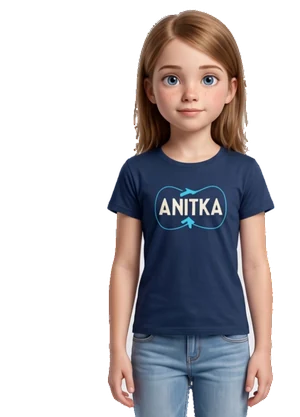
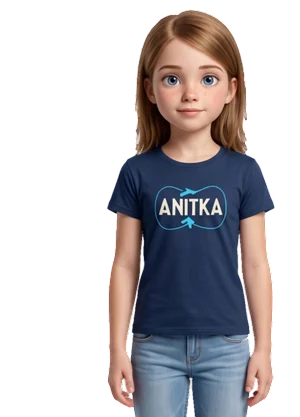
Anitka: užší sloupec v průvodci a čistší ořez pozadí

diff --git a/components/guide/guide-tour.tsx b/components/guide/guide-tour.tsx
@@ -70,13 +70,16 @@ export function GuideTour({ onNavigate, onClose }: { onNavigate: (tab: Tab) => v
         <div className="flex flex-row-reverse overflow-hidden rounded-3xl border border-border bg-surface-elevated text-foreground shadow-elevated motion-safe:animate-in motion-safe:fade-in motion-safe:slide-in-from-bottom-3 motion-safe:duration-300">
           {/* The mascot stands inside the card, whole, with her feet on its lower edge. Above her
               the icon of the section being explained, the same one the navigation uses. */}
-          <div className="flex w-[8.25rem] shrink-0 flex-col items-center justify-between bg-accent-subtle pt-3 sm:w-36">
+          <div className="flex w-[6rem] shrink-0 flex-col items-center justify-between bg-accent-subtle pt-3 sm:w-28">
             <span key={`icon-${step.id}`} className="flex size-9 items-center justify-center rounded-full bg-surface-elevated text-accent-text shadow-sm motion-safe:animate-in motion-safe:zoom-in-50 motion-safe:duration-300">
               <SectionIcon className="size-5" aria-hidden="true" />
             </span>
             {/* She hops in each time a new card appears (the key restarts it), breathes and sways, and her
                 face and head are alive: blinking, smiling, nodding, a wink (components/guide/anitka-mascot.tsx). */}
-            <div key={`mascot-${step.id}`} className="guide-hop mt-3 w-full px-0.5">
+            {/* The picture is wider than the column on purpose (its left side is where her raised hand goes
+                while she greets): it overhangs the text for those few seconds, and she herself stands in the
+                middle of the column. */}
+            <div key={`mascot-${step.id}`} className="guide-hop pointer-events-none relative z-10 mt-3 w-[8.25rem] shrink-0 -ml-[2.25rem] self-start sm:w-36">
               <AnitkaMascot mood={step.mood} talkMs={talkDurationMs(step.text)} className="guide-idle" />
             </div>
           </div>

diff --git a/docs/22_GUIDE.md b/docs/22_GUIDE.md
@@ -19,7 +19,7 @@ Klikatelný interaktivní návod (ne video) s maskotem Anitkou, malou holčičko
 
 **Přirozený pohyb (2026-10-12).** Houpání a poskočení při změně karty bylo pryč: nepůsobilo přirozeně. Teď se jen jemně nadechuje (`guide-idle`), nová karta se plynule objeví (`guide-hop`, 0,45 s, bez skoku a bez vjezdu ze strany). Mluví po dobu úměrnou délce textu karty (`talkDurationMs`, 1,6–4,5 s, CSS proměnná `--talk`): rty se pohybují nepravidelně s pauzami mezi frázemi a hlava se při řeči lehce zdvihá a sklání (vrstva `.anitka-speak`). Mrká nepravidelně a jednou za cyklus dvakrát za sebou, hlava se v klidu jen pomalu uvolňuje do stran. Nálady (`mood`) začínají i končí v klidové poloze: `nod` kývne po domluvení, `think` na chvíli nakloní hlavu, `cheer` krátce zvedne hlavu, `wink` mrkne po domluvení a úsměv přichází až po řeči. **Gestikulace rukama zatím není:** podklad je jeden obrázek, na kterém ruce visí podél těla a jsou na dolním okraji ořezané (dlaně nejsou vidět), takže je nejde věrohodně hýbat. Vyžaduje nový podklad (postava s viditelnýma rukama, ideálně ruce zvlášť).
 
-**Nová podoba postavy (2026-10-12, realističtější, z animací od vlastníka).** Průvodce i intro používají stejnou postavu: dívku v modrém tričku z čelního pohledu, vyříznutou ze studiového pozadí videí (`public/brand/anitka/`): `anitka-guide-front.webp` (klidná poloha, horní polovina těla, 300 × 417 px) a `anitka-guide-wave.webp` (spritový list 7 × 5 dlaždic ze snímků videa „Mávání zepředu“, 12 snímků za sekundu). Na ostatních kartách se hýbe jen hlava (drift, kývnutí, naklonění; vrstva hlavy je ta samá kresba oříznutá u krku) a obličej: víčka (mrkání, mrknutí) a ústa (úsměv, pohyb rtů při „řeči“) jsou SVG přes obličej, souřadnice v pixelech videa (1176 × 1756) posunuté o ořez. První karta (`mood: 'wave'`) nahradí klidný obrázek mávnutím z videa (asi 3 s) a plynule se do něj vrátí (průnik 0,3 s); při „omezit pohyb“ je jen klidný obrázek. Sloupec s postavou je širší (8,25–9 rem), aby se vešla i zvednutá ruka. Staré obrázky `anitka-mascot-full.webp` a vrstvy `anitka-guide-body/arm/wave-*.webp` jsou smazané. Úvodní obrazovka před přihlášením má vlastní přehrávání (viz výše).
+**Nová podoba postavy (2026-10-12, realističtější, z animací od vlastníka).** Průvodce i intro používají stejnou postavu: dívku v modrém tričku z čelního pohledu, vyříznutou ze studiového pozadí videí (`public/brand/anitka/`): `anitka-guide-front.webp` (klidná poloha, horní polovina těla, 300 × 417 px) a `anitka-guide-wave.webp` (spritový list 7 × 5 dlaždic ze snímků videa „Mávání zepředu“, 12 snímků za sekundu). Na ostatních kartách se hýbe jen hlava (drift, kývnutí, naklonění; vrstva hlavy je ta samá kresba oříznutá u krku) a obličej: víčka (mrkání, mrknutí) a ústa (úsměv, pohyb rtů při „řeči“) jsou SVG přes obličej, souřadnice v pixelech videa (1176 × 1756) posunuté o ořez. První karta (`mood: 'wave'`) nahradí klidný obrázek mávnutím z videa (asi 3 s) a plynule se do něj vrátí (průnik 0,3 s); při „omezit pohyb“ je jen klidný obrázek. Sloupec s postavou je úzký (6–7 rem), obrázek v něm je ale širší (8,25–9 rem) a vyčnívá doleva přes text (`z-10`, bez zachytávání klepnutí): ruka při mávání na pár vteřin přejede přes text a potom se postava do sloupce vejde. Ořez pozadí (2026-10-12, podruhé): za pozadí se bere i každý jasný skoro bezbarvý pixel (stěna a podlaha studia; kůže, vlasy, džíny a tričko jsou barevné), takže nezůstávají proužky mezi paží a tělem ani světlý lem kolem vlasů; uvnitř postavy se nechávají jen díry v obličeji, v nápisu na tričku a drobné díry v džínách. Boty se skládají z růžové části a tenkého lemu podrážky, ne z jasu podlahy. Staré obrázky `anitka-mascot-full.webp` a vrstvy `anitka-guide-body/arm/wave-*.webp` jsou smazané. Úvodní obrazovka před přihlášením má vlastní přehrávání (viz výše).
 
 Původní popis (zachovaný níže) platí pro dýchání a umístění v kartě; skok a kolébání už neplatí a obrázek je nahrazený.
 

diff --git a/docs/07_CHANGELOG.md b/docs/07_CHANGELOG.md
@@ -1,3 +1,8 @@
+## 2026-10-12 — Anitka: užší sloupec v průvodci a čistší ořez pozadí
+
+- Koncept: `docs/22_GUIDE.md`. Sloupec s postavou v průvodci je zase úzký (6–7 rem); obrázek je širší a při mávání ruka na chvíli přejede přes text, potom se postava do sloupce vejde. Ořez pozadí intra i průvodce je přepracovaný: jasné skoro bezbarvé pixely se berou za pozadí, takže zmizely zbytky mezi rukama a tělem a světlý lem kolem hlavy a vlasů; nápis ANITKA na tričku, oči, zuby a drobné díry v džínách zůstávají. Boty se skládají z růžové části a lemu podrážky. Nové `anitka-intro-walk.webp`, `anitka-guide-wave.webp` a `anitka-guide-front.webp`.
+- Ověřeno: typová kontrola, testy, snímky z Chromia (intro v pohybu i ve stoje, karta průvodce na 390 a 360 px při mávání i po něm). U botek zůstávají drobné nedokonalosti (tmavý stín pod pravou botou v některých snímcích). Na telefonu zatím neověřeno.
+
 ## 2026-10-12 — Průvodce: nová podoba Anitky (čelní pohled, mimika, mávání zepředu)
 
 - Koncept: `docs/22_GUIDE.md`. Průvodce přešel na novou, realističtější podobu postavy z animací od vlastníka: klidný čelní obrázek (`anitka-guide-front.webp`) s dokreslenou mimikou (víčka, úsměv, rty) přes nový obličej a na první kartě mávnutí z videa „Mávání zepředu“ jako spritový list (`anitka-guide-wave.webp`, 35 dlaždic, 0,5 MB) s plynulým návratem do klidné polohy. Starší vrstvená postava (tělo, svěšená paže, zvednutá paže, dlaň) a její obrázky jsou pryč, sloupec s postavou je širší kvůli zvednuté ruce.
